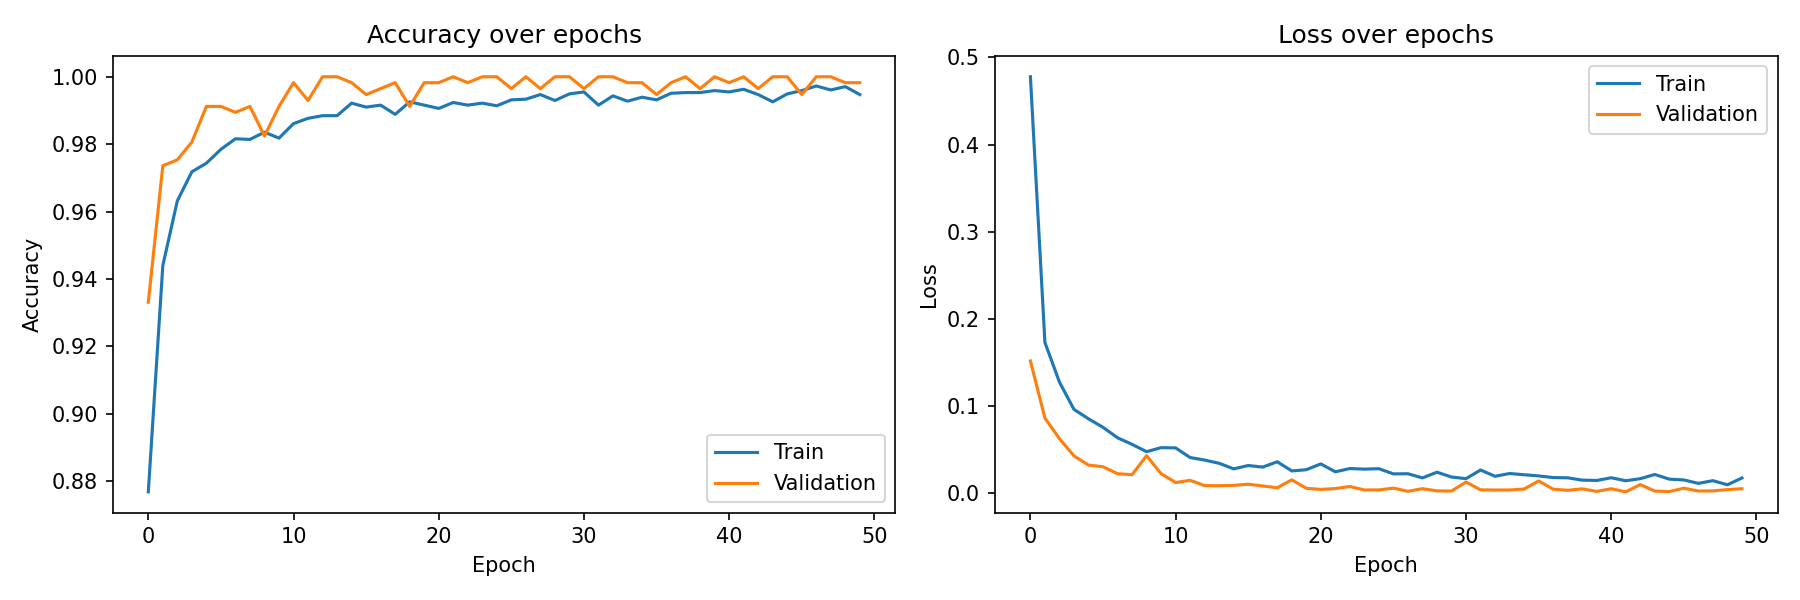
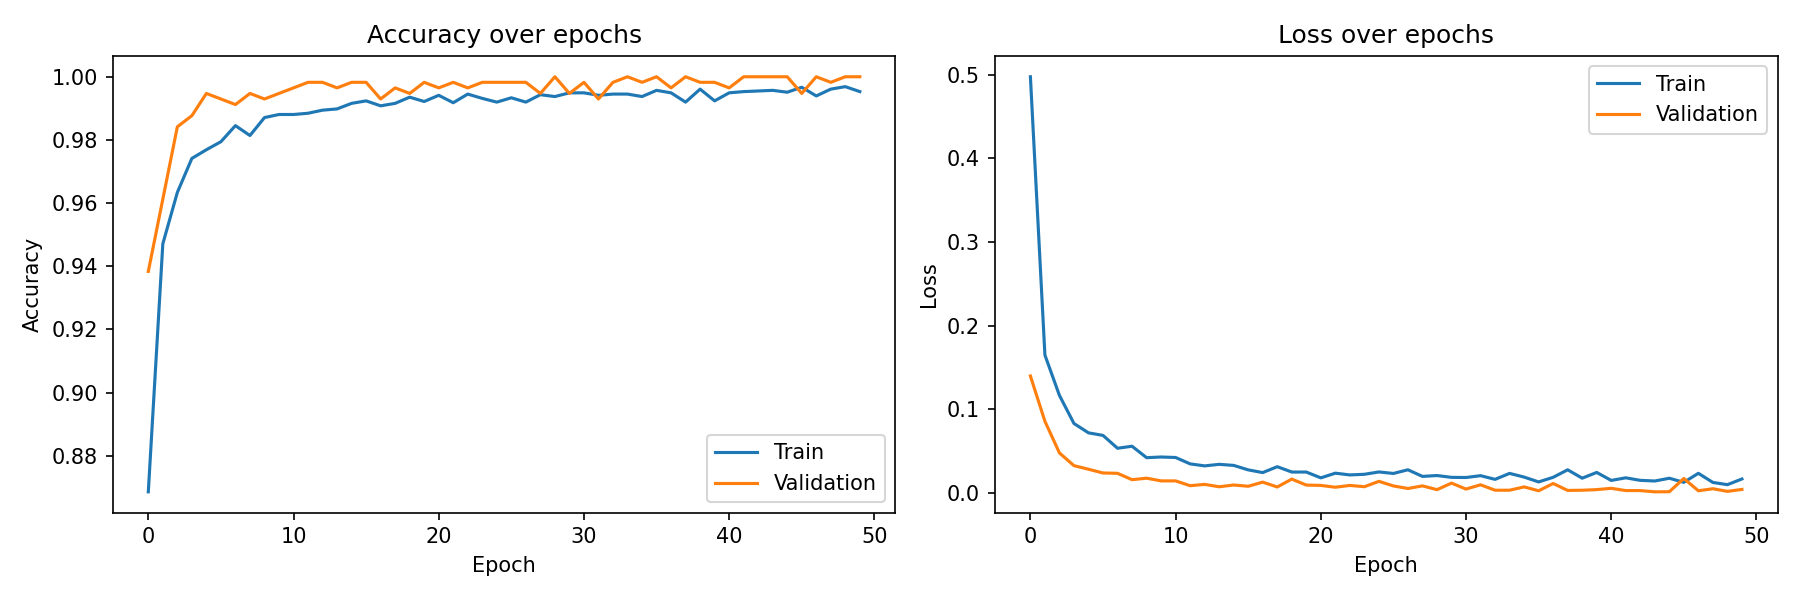
docs(ANN): se agrega reporte actualizado

diff --git a/docs/main.tex b/docs/main.tex
@@ -1,5 +1,6 @@
 \documentclass{article}
 \usepackage{graphicx} % Required for inserting images
+\usepackage{float}
 
 \title{Final Project EDT}
 \author{Santiago Chitiva \\ Valeria Caycedo \\ Samuel Campos \\ Erick Salazar \\ Juan E. Díaz}
@@ -156,7 +157,7 @@ Table~\ref{tab:svm_results} summarizes the evaluation metrics obtained during te
 The confusion matrix shown in Figure~\ref{fig:svm_cm} confirms the high classification accuracy of the model. Most samples were correctly classified, with
 only a very small number of misclassifications between spectrally similar classes.
 
-\begin{figure}[h]
+\begin{figure}[H]
   \centering
   \includegraphics[width=0.75\linewidth]{figures/svm_confusion_matrix.png}
   \caption{Confusion matrix obtained from the SVM classifier.}
@@ -168,6 +169,64 @@ baseline for comparison with the other machine learning approaches evaluated in 
 
 \subsubsection{Artificial Neural Networks (ANN)}
 
+An Artificial Neural Network (ANN) model was implemented to evaluate the performance of deep learning techniques for multispectral land cover
+classification. Neural networks are capable of learning complex nonlinear relationships between spectral features and target classes, making them highly
+suitable for remote sensing applications involving high-dimensional data.
+
+The ANN was trained using the same dataset employed for the SVM classifier, containing 8108 labeled pixel samples equally distributed among the classes
+Built-up, Soil, Vegetation, and Water. Each sample contains the reflectance values corresponding to the ten Sentinel-2 spectral bands selected for this
+study.
+
+Prior to training, the dataset was normalized and divided into training and testing subsets using a stratified split. Approximately 70\% of the data was
+used for training, while the remaining 30\% was reserved for model evaluation.
+
+The neural network architecture consisted of multiple fully connected dense layers with ReLU activation functions and Dropout regularization layers to
+reduce overfitting. The final output layer used a softmax activation function to perform multiclass classification across the four land cover categories.
+
+The model was trained for 50 epochs and achieved a final Overall Accuracy of 99.59\% on the testing dataset. The training history demonstrated stable
+convergence and high validation accuracy throughout the training process.
+
+Table~\ref{tab:ann_results} summarizes the classification metrics obtained for the ANN model.
+
+\begin{table}[h]
+    \centering
+    \caption{Classification report for the ANN model.}
+    \label{tab:ann_results}
+    \begin{tabular}{lcccc}
+        \hline
+        \textbf{Class} & \textbf{Precision} & \textbf{Recall} & \textbf{F1-score} & \textbf{Support} \\
+        \hline
+        Built-up   & 1.00 & 1.00 & 1.00 & 608 \\
+        Soil       & 0.99 & 1.00 & 0.99 & 608 \\
+        Vegetation & 1.00 & 1.00 & 1.00 & 609 \\
+        Water      & 1.00 & 0.99 & 1.00 & 608 \\
+        \hline
+    \end{tabular}
+\end{table}
+
+Figure~\ref{fig:ann_cm} presents the confusion matrix generated from the ANN predictions. The matrix indicates that the vast majority of samples were
+correctly classified, with only minimal confusion between a few spectrally similar classes.
+
+\begin{figure}[H]
+    \centering
+    \includegraphics[width=0.75\linewidth]{figures/nn_confusion_matrix.png}
+    \caption{Confusion matrix obtained from the ANN classifier.}
+    \label{fig:ann_cm}
+\end{figure}
+
+Figure~\ref{fig:ann_history} shows the training history of the neural network, including the evolution of training and validation accuracy during the
+learning process. The results demonstrate rapid convergence and stable generalization performance.
+
+\begin{figure}[H]
+    \centering
+    \includegraphics[width=0.85\linewidth]{figures/nn_training_history.png}
+    \caption{Training and validation accuracy history for the ANN model.}
+    \label{fig:ann_history}
+\end{figure}
+
+The ANN model achieved performance comparable to the SVM classifier, confirming that deep learning approaches can effectively model the spectral behavior
+of different land cover types using Sentinel-2 multispectral imagery.
+
 \subsubsection{K-Nearest Neighbor (KNN)}
 
 \subsubsection{Naive Bayes (NB)}
@@ -175,3 +234,4 @@ baseline for comparison with the other machine learning approaches evaluated in 
 \section{Phase 3: Synthesis and Prediction}
 
 \end{document}
+